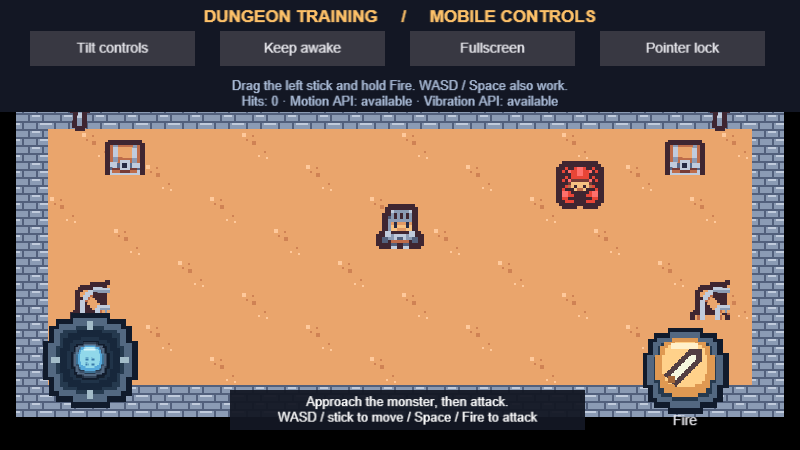
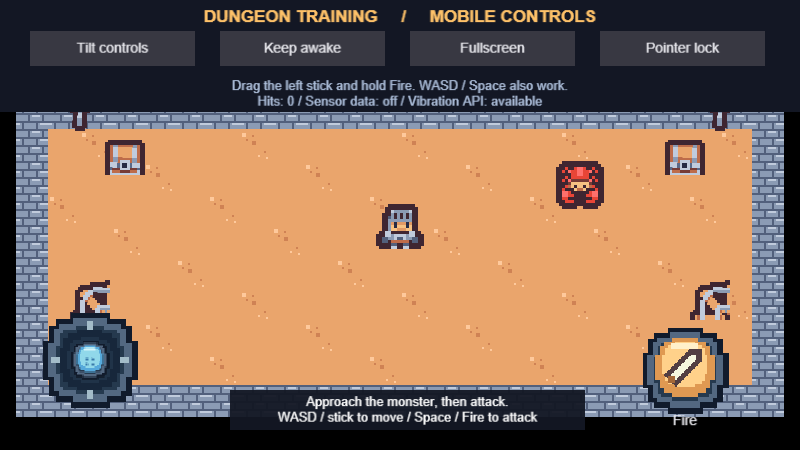
fix(examples): distinguish motion requests from sensor samples

Changed region(s): [[0.2812, 0.1867, 0.7188, 0.2489]]

diff --git a/examples/mobile-controls/src/main.ts b/examples/mobile-controls/src/main.ts
@@ -9,6 +9,7 @@ const controls = new InputMap({ Move: Axis2D(Keys2D('KeyW', 'KeyS', 'KeyA', 'Key
     Fire: Button(Key('Space'), Virtual('fire')) });
 let tilt = { x: 0, y: 0 };
 let motion = false;
+let motionData = 'off';
 let status: Entity | null = null;
 let message = 'Drag the left stick and hold Fire. WASD / Space also work.';
 let hits = 0;
@@ -32,8 +33,9 @@ addStartupSystem(defineSystem([Res(UIEvents), GetWorld()], (events, world) => {
         world.insert(handle.entity, Name, { value: text });
     };
     button('Tilt controls', 30, () => {
-        if (motion) { motion = false; tilt = { x: 0, y: 0 }; void Device.motion.stop().then(report('Motion stopped')); return; }
+        if (motion) { motion = false; motionData = 'off'; tilt = { x: 0, y: 0 }; void Device.motion.stop().then(report('Motion stopped')); return; }
         const caps = Device.capabilities();
+        motionData = 'waiting';
         void Device.motion.start({ accelerometer: caps.accelerometer, gyroscope: caps.gyroscope }).then(result => {
             motion = result.status === 'ok'; report('Motion')(result);
         });
@@ -42,10 +44,17 @@ addStartupSystem(defineSystem([Res(UIEvents), GetWorld()], (events, world) => {
     button('Fullscreen', 410, () => { void Device.fullscreen(!Device.state().fullscreen).then(report('Fullscreen')); });
     button('Pointer lock', 600, () => { void Device.pointerLock(!Device.state().pointerLocked).then(report('Pointer lock')); });
     Device.motion.onChange(sample => {
-        if (!motion || !sample.gravity) return;
+        if (!motion) return;
+        const hasRawMotion = !!(sample.acceleration || sample.accelerationIncludingGravity || sample.gyroscope);
+        motionData = hasRawMotion ? 'receiving' : 'no raw channels';
+        if (!hasRawMotion) { tilt = { x: 0, y: 0 }; return; }
+        if (!sample.gravity) return;
         tilt = { x: Math.max(-1, Math.min(1, sample.gravity.x / 5)), y: Math.max(-1, Math.min(1, sample.gravity.y / 5)) };
     });
-    Device.onChange(state => { if (!state.motionActive) tilt = { x: 0, y: 0 }; });
+    Device.onChange(state => {
+        if (!state.motionActive) { tilt = { x: 0, y: 0 }; motionData = motion ? 'paused' : 'off'; }
+        else motionData = 'waiting';
+    });
     const hint = spawnUIEntity({ world, parent: canvas,
         node: { position: UIPositionType.Absolute, insetLeft: px(230), insetTop: px(390), width: px(355), height: px(40) },
         visual: { color: { r: 0.075, g: 0.09, b: 0.14, a: 0.95 } },
@@ -86,7 +95,7 @@ addSystemToSchedule(Schedule.Update, defineSystem([Res(Input), Res(Time), GetWor
     }
     if (status !== null && world.valid(status)) {
         const caps = Device.capabilities();
-        const content = `${message}\nHits: ${hits} · Motion API: ${caps.accelerometer ? 'available' : 'unavailable'} · Vibration API: ${caps.vibration ? 'available' : 'unavailable'}`;
+        const content = `${message}\nHits: ${hits} / Sensor data: ${motion ? motionData : 'off'} / Vibration API: ${caps.vibration ? 'available' : 'unavailable'}`;
         if (world.get(status, Text).content !== content) world.insert(status, Text, { ...world.get(status, Text), content });
     }
 }, { name: 'MobileControlsUpdate' }));

diff --git a/CHANGELOG.md b/CHANGELOG.md
@@ -20,7 +20,7 @@ published separately; it ships inside the editor.
 
 ### Added
 
-- **Mobile controls share InputMap and device capability results.** Fixed/follow virtual joysticks and held buttons support independent touches, mouse Play preview, radial dead zones and cancellation. Web, mini-game and native adapters expose motion, vibration and screen wake with explicit unavailable/denied results; browser fullscreen and pointer lock observe exits. The Mobile Controls example demonstrates the workflow. Physical device acceptance remains pending.
+- **Mobile controls share InputMap and device capability results.** Fixed/follow virtual joysticks and held buttons support independent touches, mouse Play preview, radial dead zones and cancellation. Web, mini-game and native adapters expose motion, vibration and screen wake with explicit unavailable/denied results; browser fullscreen and pointer lock observe exits. The Mobile Controls example distinguishes request success from raw sensor data and clears tilt when channels disappear. Physical device acceptance remains pending.
 
 ### Fixed
 

diff --git a/examples/mobile-controls/README.md b/examples/mobile-controls/README.md
@@ -11,6 +11,9 @@ texture filtering and explicit world layers. See [asset licenses](ASSET_LICENSES
 The top buttons request motion, screen wake, browser fullscreen and pointer lock
 from the player's own release event. The status text displays the request result.
 API availability is not proof that the current device has a sensor or motor.
+The sensor-data indicator shows waiting, receiving, empty raw channels, or paused
+separately from the request result. A successful request with empty channels does
+not enable tilt movement; use a phone with motion sensors to verify real readings.
 
 - Web motion and screen wake require a secure context (HTTPS or localhost).
 - iOS Safari asks for motion permission; denial is a returned `denied` result.
